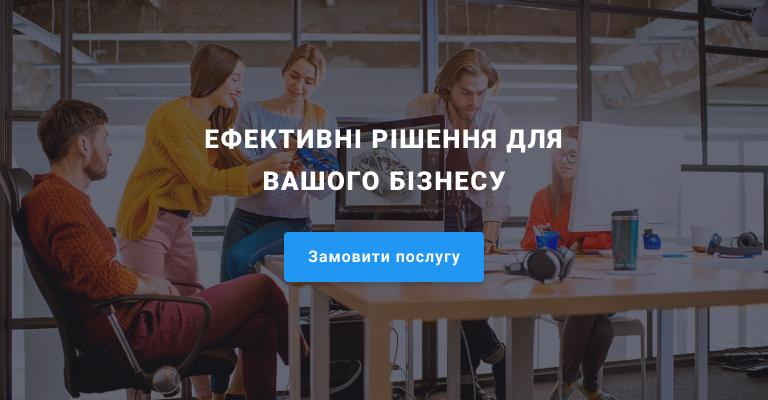
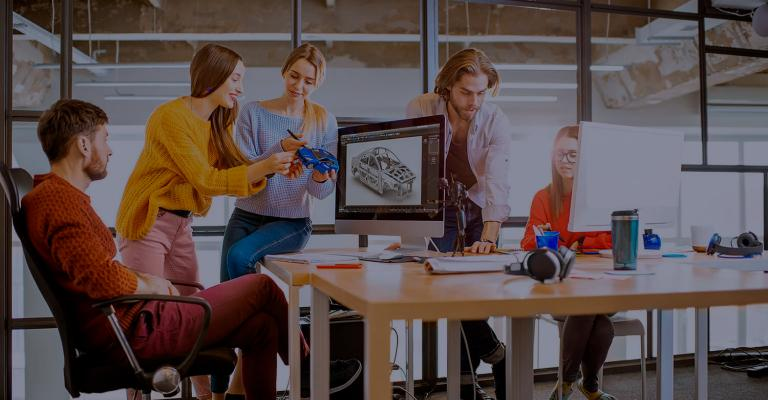
commit 4 shapka

diff --git a/sass/main.css b/sass/main.css
@@ -235,9 +235,9 @@ body {
   border-radius: 4px;
   border: none;
   height: 50px;
-  width: 216px;
-  left: 692px;
-  top: 430px;
+  width: 200px;
+  left: 140px;
+  top: 292px;
   transition: bakground-color var(--transition-duration-function), filter var(--transition-duration-function);
 }
 .section-shapka__btn:hover, .section-shapka__btn:focus {
@@ -251,12 +251,25 @@ body {
   line-height: 1.87;
   display: flex;
   align-items: center;
+  justify-content: center;
   text-align: center;
   letter-spacing: 0.06em;
   color: var(--secondary-text-color-theme-light);
-  margin-left: 32px;
 }
 
+@media screen and (min-width: 768px) {
+  .section-shapka__btn {
+    left: 284px;
+    top: 312px;
+  }
+}
+@media screen and (min-width: 1200px) {
+  .section-shapka__btn {
+    width: 216px;
+    left: 692px;
+    top: 430px;
+  }
+}
 .modal {
   position: absolute;
   top: 50%;
@@ -894,15 +907,17 @@ body {
   }
 }
 .section-shapka {
-  background: var(--secondary-text-color-theme-dark);
-  padding-top: 200px;
-  padding-bottom: 200px;
-  background-image: linear-gradient(rgba(47, 48, 58, 0.4), rgba(47, 48, 58, 0.4)), url("../images/shapka/bcimg.jpg");
-  background-repeat: no-repeat;
-  background-position: center;
-  max-width: 1600px;
+  max-width: 767px;
   margin-left: auto;
   margin-right: auto;
+  background: var(--secondary-text-color-theme-dark);
+  padding-top: 118px;
+  padding-bottom: 118px;
+  background-image: linear-gradient(rgba(47, 48, 58, 0.4), rgba(47, 48, 58, 0.4)), url("../images/mobile/shapka.jpg");
+  background-position: center top;
+  background-repeat: no-repeat;
+  min-height: 400px;
+  box-shadow: 0px 4px 4px rgba(0, 0, 0, 0.25);
 }
 
 .section-shapka__container {
@@ -914,20 +929,48 @@ body {
 
 .section-shapka__title {
   font-weight: 900;
-  font-size: 44px;
-  line-height: 1.36;
+  font-size: 26px;
+  line-height: 42px;
   text-align: center;
   letter-spacing: 0.06em;
   text-transform: uppercase;
   color: var(--secondary-text-color-theme-light);
   margin-bottom: 30px;
-  height: 120px;
-  width: 696px;
-  left: 452px;
-  top: 280px;
+  height: 84px;
+  width: 360px;
+  left: 60px;
+  top: 178px;
   border-radius: 0px;
 }
 
+@media screen and (min-width: 768px) {
+  .section-shapka {
+    max-width: 1199px;
+  }
+  .section-shapka__title {
+    left: 204px;
+    top: 198px;
+  }
+  .section-shapka {
+    background-image: linear-gradient(rgba(47, 48, 58, 0.4), rgba(47, 48, 58, 0.4)), url("../images/tablet/shapkatab.jpg");
+  }
+}
+@media screen and (min-width: 1200px) {
+  .section-shapka {
+    padding-top: 200px;
+    padding-bottom: 200px;
+    background-image: linear-gradient(rgba(47, 48, 58, 0.4), rgba(47, 48, 58, 0.4)), url("../images/desktop/shapka-des.jpg");
+    max-width: 1600px;
+  }
+  .section-shapka__title {
+    font-size: 44px;
+    line-height: 1.36;
+    height: 120px;
+    width: 696px;
+    left: 452px;
+    top: 280px;
+  }
+}
 .osoblivosti {
   padding-top: 94px;
   padding-bottom: 94px;

diff --git a/index.html b/index.html
@@ -148,7 +148,7 @@
       </div>
     </header>
     <!--MAIN-->
-    <!-- <main class="page-main">
+    <main class="page-main">
       <section class="section-shapka section">
         <div class="section-shapka__container container">
           <h1 class="section-shapka__title">
@@ -159,7 +159,7 @@
           </button>
         </div>
       </section>
-      <section class="osoblivosti section">
+      <!-- <section class="osoblivosti section">
         <div class="container">
           <h2 class="visually-hidden">Наші особливості</h2>
           <ul class="osoblivosti__container list">
@@ -232,8 +232,8 @@
             </li>
           </ul>
         </div>
-      </section>
-      <section class="work section">
+      </section> -->
+      <!-- <section class="work section">
         <div class="container work-container">
           <h2 class="work-h">Чим ми займаємося</h2>
           <ul class="list work-list">
@@ -272,8 +272,8 @@
             </li>
           </ul>
         </div>
-      </section>
-      <section class="comanda section comanda-container">
+      </section> -->
+      <!-- <section class="comanda section comanda-container">
         <div class="container">
           <h2 class="comanda-our">Наша команда</h2>
           <ul class="list comanda-list">
@@ -440,8 +440,8 @@
             </li>
           </ul>
         </div>
-      </section>
-      <section class="client section">
+      </section> -->
+      <!-- <section class="client section">
         <div class="container">
           <h2 class="client-name">Постійні клієнти</h2>
           <ul class="client-list list">
@@ -519,9 +519,9 @@
             </li>
           </ul>
         </div>
-      </section>
+      </section> -->
     </main>
-    <footer class="page-footer">
+    <!-- <footer class="page-footer">
       <div class="container container-footer">
         <div class="page-footer-container-contact">
           <a class="logo-footer link" href="./index.html">
@@ -621,9 +621,9 @@
           </div>
         </form>
       </div>
-    </footer>
+    </footer> -->
     <!-- !Модальне вікно -->
-    <!-- <div class="backdrop is-hidden" data-modal>
+    <div class="backdrop is-hidden" data-modal>
       <div class="modal">
         <button type="button" class="modal-close-btn" data-modal-close>
           <svg class="modal-close-icon" width="18" height="18">
@@ -743,7 +743,7 @@
           <button type="submit" class="modal-form-button">Відправити</button>
         </form>
       </div>
-    </div> --> -->
+    </div>
 
     <script src="./js/mobile-menu.js"></script>
     <script src="./js/modal.js"></script>

diff --git a/sass/layout/_shapka.scss b/sass/layout/_shapka.scss
@@ -1,13 +1,15 @@
 .section-shapka {
-    background: var(--secondary-text-color-theme-dark);
-    padding-top: 200px;
-    padding-bottom: 200px;
-    background-image: linear-gradient(rgba(47, 48, 58, 0.4), rgba(47, 48, 58, 0.4)), url('../images/shapka/bcimg.jpg');
-    background-repeat: no-repeat;
-    background-position: center;
-    max-width: 1600px;
+    max-width: 767px;
     margin-left: auto;
     margin-right: auto;
+    background: var(--secondary-text-color-theme-dark);
+    padding-top: 118px;
+    padding-bottom: 118px;
+    background-image: linear-gradient(rgba(47, 48, 58, 0.4), rgba(47, 48, 58, 0.4)), url('../images/mobile/shapka.jpg');
+    background-position: center top;
+    background-repeat: no-repeat;
+    min-height: 400px;
+    box-shadow: 0px 4px 4px rgba(0, 0, 0, 0.25);
 }
 
 .section-shapka__container {
@@ -19,16 +21,52 @@
 
 .section-shapka__title {
     font-weight: 900;
-    font-size: 44px;
-    line-height: 1.36;
+    font-size: 26px;
+    line-height: 42px;
     text-align: center;
     letter-spacing: 0.06em;
     text-transform: uppercase;
     color: var(--secondary-text-color-theme-light);
     margin-bottom: 30px;
-    height: 120px;
-    width: 696px;
-    left: 452px;
-    top: 280px;
+    height: 84px;
+    width: 360px;
+    left: 60px;
+    top: 178px;
     border-radius: 0px;
 }
+
+@media screen and (min-width: 768px) {
+    .section-shapka {
+        max-width: 1199px;    
+    }
+       
+    .section-shapka__title {
+        left: 204px;
+        top: 198px;
+    }
+
+    .section-shapka {
+        background-image: linear-gradient(rgba(47, 48, 58, 0.4), rgba(47, 48, 58, 0.4)), url('../images/tablet/shapkatab.jpg');
+    }
+}
+
+@media screen and (min-width: 1200px) {
+    .section-shapka {
+        padding-top: 200px;
+        padding-bottom: 200px;
+        background-image: linear-gradient(rgba(47, 48, 58, 0.4), rgba(47, 48, 58, 0.4)), url('../images/desktop/shapka-des.jpg');
+        max-width: 1600px;
+    }
+        
+    .section-shapka__title {
+        font-size: 44px;
+        line-height: 1.36;
+        height: 120px;
+        width: 696px;
+        left: 452px;
+        top: 280px;
+    }  
+}
+
+
+

diff --git a/sass/components/_modal-btn.scss b/sass/components/_modal-btn.scss
@@ -4,9 +4,9 @@
     border-radius: 4px;
     border: none;
     height: 50px;
-    width: 216px;
-    left: 692px;
-    top: 430px;
+    width: 200px;
+    left: 140px;
+    top: 292px;
     transition: bakground-color var(--transition-duration-function), filter var(--transition-duration-function);
 
     &:hover,
@@ -22,8 +22,28 @@
     line-height: 1.87;
     display: flex;
     align-items: center;
+    justify-content: center;
     text-align: center;
     letter-spacing: 0.06em;
     color: var(--secondary-text-color-theme-light);
-    margin-left: 32px;
 }
+
+@media screen and (min-width: 768px) {
+    .section-shapka__btn {
+        left: 284px;
+        top: 312px;
+    }
+}
+
+@media screen and (min-width: 1200px) {
+    .section-shapka__btn {
+        width: 216px;
+        left: 692px;
+        top: 430px;
+    }
+}
+
+
+
+
+
